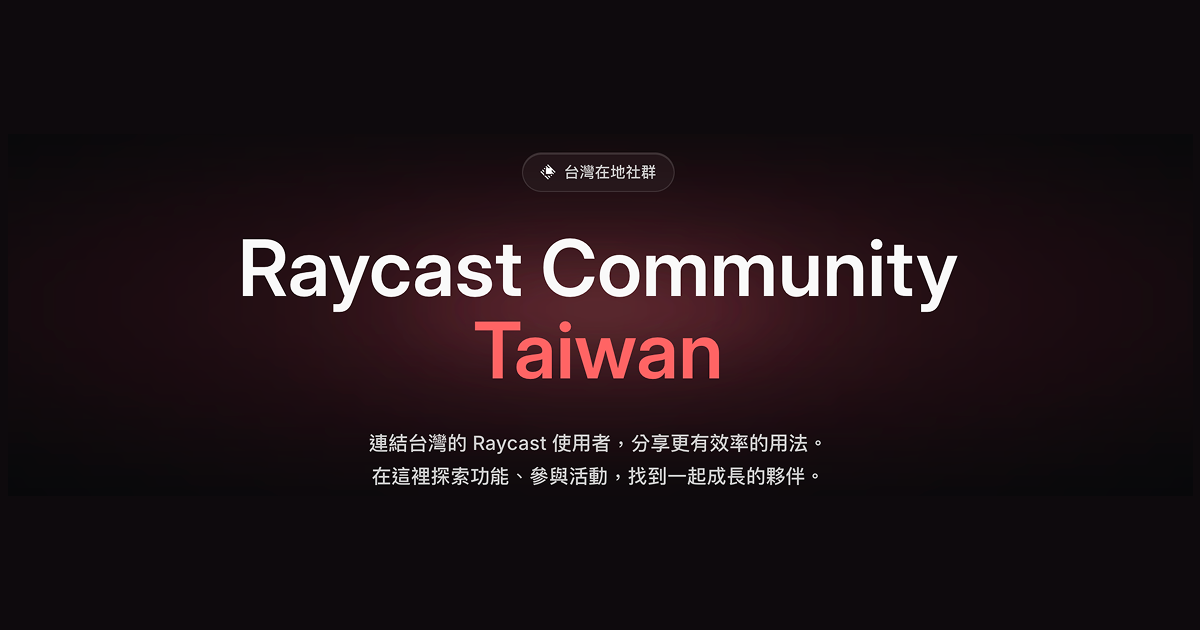
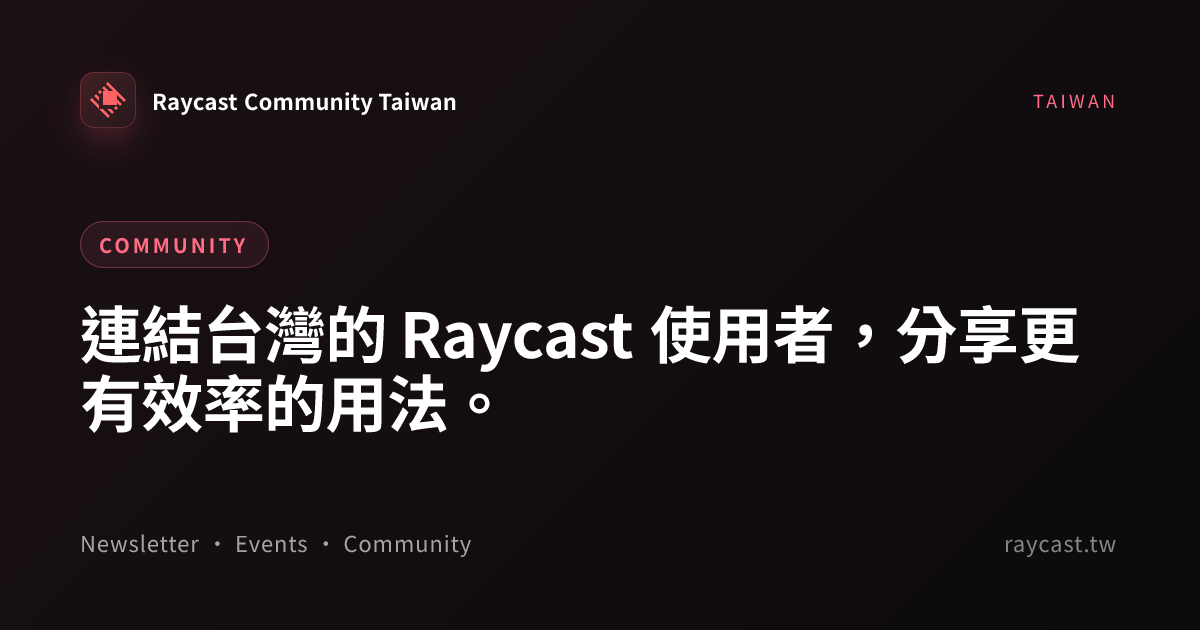
feat: add homepage OG generation and edit content

diff --git a/scripts/build-seo.ts b/scripts/build-seo.ts
@@ -105,6 +105,22 @@ async function generateOgImages(fonts: FontEntry[], logoDataUri: string) {
   const ogDir = path.join(distDir, "og");
   await fs.mkdir(ogDir, { recursive: true });
 
+  // Homepage / default OG (also overwrites public/og-image.png so dev stays in sync)
+  const homeInput: OgInput = {
+    kicker: "TAIWAN",
+    badge: "COMMUNITY",
+    title: "連結台灣的 Raycast 使用者，分享更有效率的用法。",
+    meta: "Newsletter · Events · Community",
+    theme: "crimson",
+    logoDataUri,
+  };
+  await renderOg(fonts, homeInput, path.join(distDir, "og-image.png"));
+  await renderOg(
+    fonts,
+    homeInput,
+    path.join(repoRoot, "public", "og-image.png"),
+  );
+
   // Newsletter detail OG images
   for (const n of newsletterMeta) {
     const typeLabel = n.type === "monthly" ? "MONTHLY" : "WEEKLY";
@@ -224,7 +240,7 @@ function buildRoutes(): RouteSeo[] {
     path: "/newsletter",
     title: "電子報總覽：Raycast 月報與週報",
     description:
-      "Raycast Community Taiwan 整理的官方月報與週報，依時間倒序排列，快速掌握 Raycast 平台動態、社群活動與實用技巧。",
+      "Raycast Community Taiwan 整理的官方月報與週報，快速掌握 Raycast 平台動態、社群活動與實用技巧。",
     image: `${SITE_URL}/og/newsletter/index.png`,
     type: "website",
     jsonLd: [
@@ -232,8 +248,7 @@ function buildRoutes(): RouteSeo[] {
         "@context": "https://schema.org",
         "@type": "CollectionPage",
         name: "Raycast 電子報總覽",
-        description:
-          "Raycast Community Taiwan 整理的官方月報與週報，依時間倒序排列。",
+        description: "Raycast Community Taiwan 整理的官方月報與週報。",
         url: `${SITE_URL}/newsletter`,
         inLanguage: "zh-TW",
         isPartOf: {

diff --git a/src/pages/NewsletterIndexPage.tsx b/src/pages/NewsletterIndexPage.tsx
@@ -35,7 +35,7 @@ export function NewsletterIndexPage() {
   useSeo({
     title: "電子報總覽：Raycast 月報與週報",
     description:
-      "Raycast Community Taiwan 整理的官方月報與週報，依時間倒序排列，快速掌握 Raycast 平台動態、社群活動與實用技巧。",
+      "Raycast Community Taiwan 整理的官方月報與週報，快速掌握 Raycast 平台動態、社群活動與實用技巧。",
     path: "/newsletter",
     image: "/og/newsletter/index.png",
     jsonLd: [
@@ -43,8 +43,7 @@ export function NewsletterIndexPage() {
         "@context": "https://schema.org",
         "@type": "CollectionPage",
         name: "Raycast 電子報總覽",
-        description:
-          "Raycast Community Taiwan 整理的官方月報與週報，依時間倒序排列。",
+        description: "Raycast Community Taiwan 整理的官方月報與週報。",
         url: `${SITE_URL}/newsletter`,
         inLanguage: "zh-TW",
         isPartOf: {
@@ -103,8 +102,7 @@ export function NewsletterIndexPage() {
               電子報總覽
             </h1>
             <p className="text-light-gray mt-5 max-w-[620px] text-[16px] leading-[1.7] font-medium tracking-[0.2px] md:text-[20px]">
-              Raycast
-              月報與週報全集，依時間倒序排列。掌握平台動態、社群活動與實用技巧。
+              Raycast 月報與週報合集，掌握平台動態、社群活動與實用技巧。
             </p>
           </motion.div>
 

diff --git a/src/pages/EventsIndexPage.tsx b/src/pages/EventsIndexPage.tsx
@@ -13,7 +13,7 @@ type EventFilter = "all" | "upcoming" | "past";
 const filterOptions: Array<{ id: EventFilter; label: string }> = [
   { id: "all", label: "全部" },
   { id: "upcoming", label: "即將舉辦" },
-  { id: "past", label: "過往精選" },
+  { id: "past", label: "過往活動" },
 ];
 
 function sortByNearestDate(
@@ -128,7 +128,7 @@ export function EventsIndexPage() {
             </h1>
             <p className="text-light-gray mt-5 max-w-[620px] text-[16px] leading-[1.7] font-medium tracking-[0.2px] md:text-[20px]">
               Raycast Taiwan 的線下聚會、Raycafé
-              與工作坊。即將舉辦與過往精選一次掌握。
+              與工作坊。掌握即將舉辦的場次，回顧過往精選紀錄。
             </p>
           </motion.div>
 
